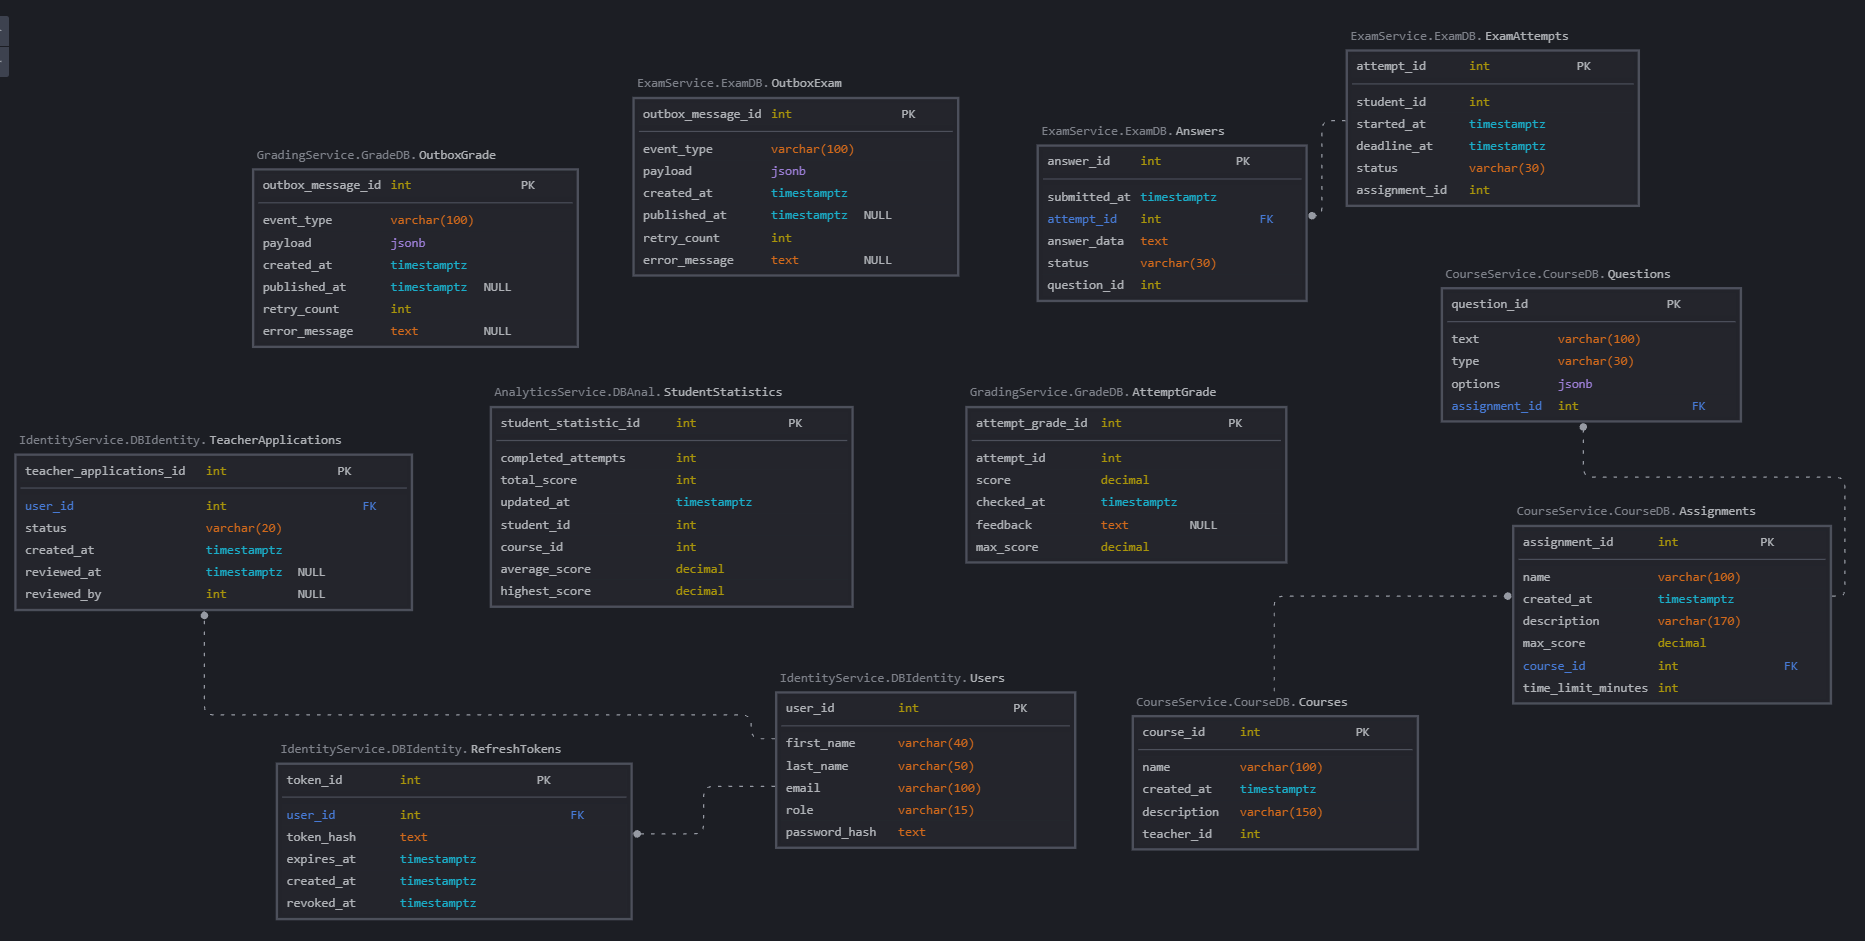
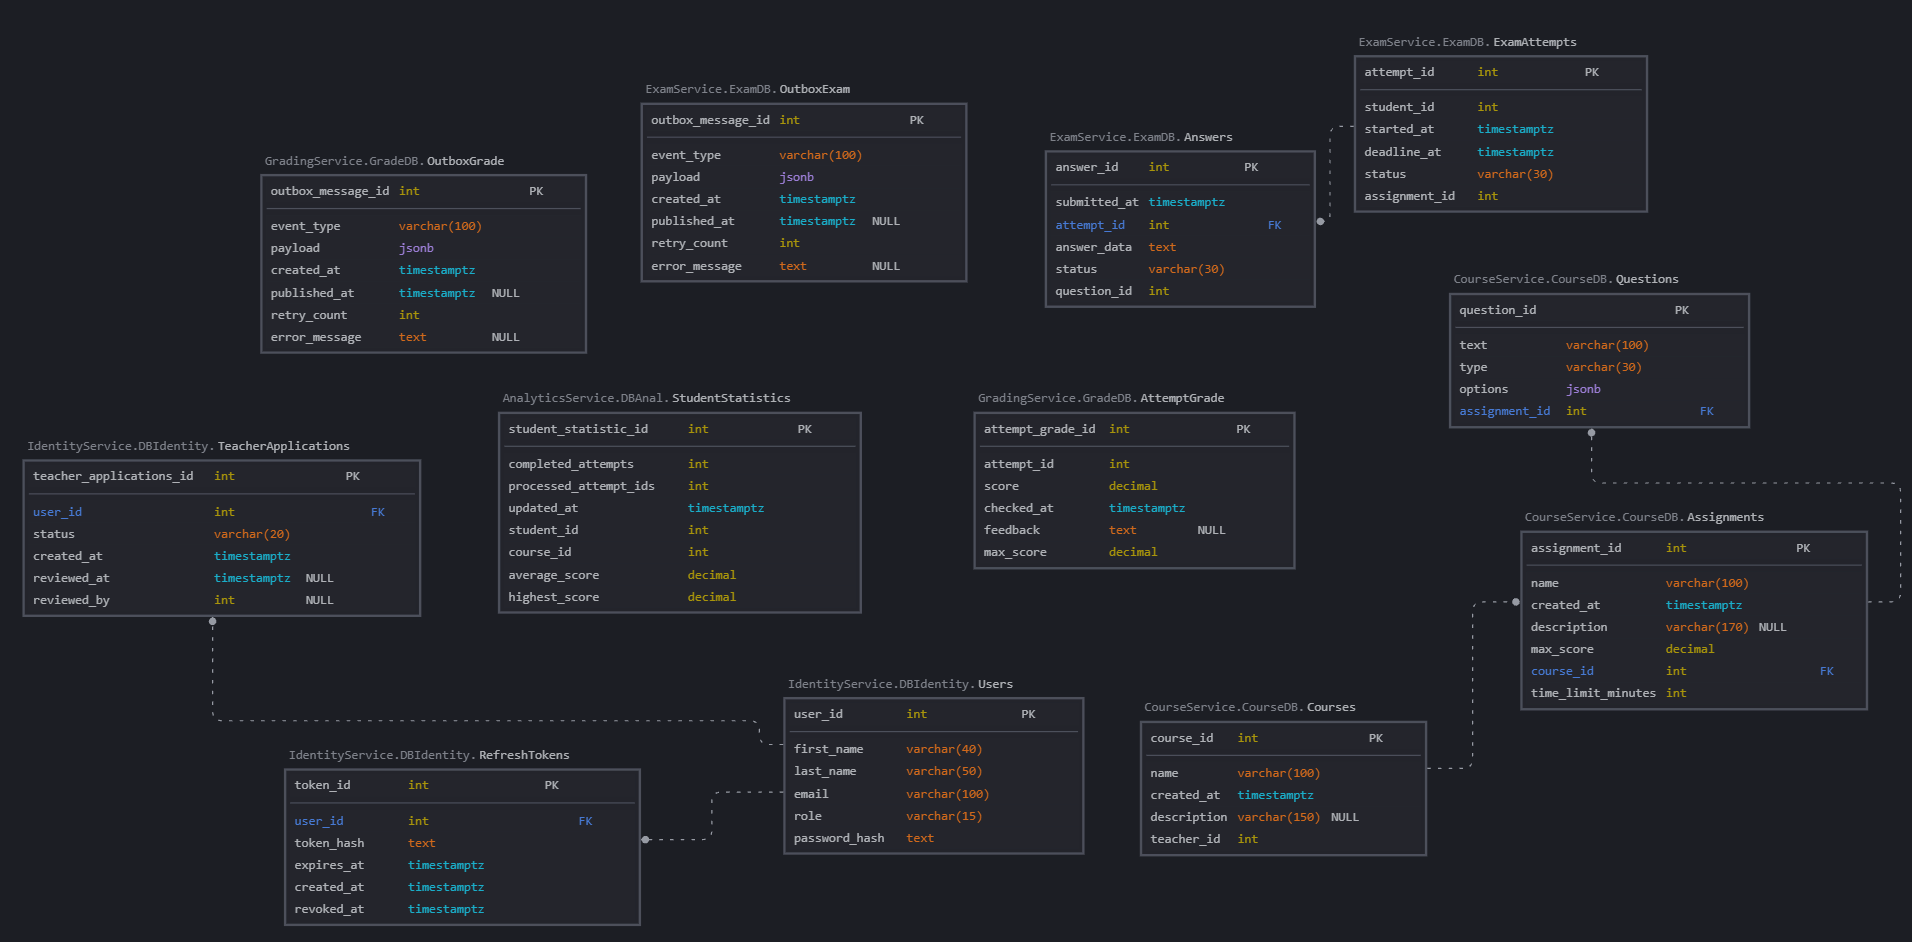
docs: update plan, architecture and er diagram

diff --git a/docs/PLAN.md b/docs/PLAN.md
@@ -22,9 +22,9 @@
 
 | 3. Каркас | Сервисы, Docker Compose, CI, первый тест | 23.10 - 24.10 | 24.10 | Выполнено |
 
-| 4. Основная функциональность | Сервисы A, B, C с тестами | 24.10 - 8.11 | | В работе |
+| 4. Основная функциональность | Сервисы A, B, C с тестами | 24.10 - 10.11 | | В работе |
 
-| 5. Клиент и интеграция | Клиент, сквозные сценарии | 8.11 - 11.11 | | Не начат |
+| 5. Клиент и интеграция | Клиент, сквозные сценарии | 10.11 - 11.11 | | Не начат |
 
 | 6. Финал | Документация, демонстрация | 12.11 - 13.11 | | Не начат |
 
@@ -54,5 +54,5 @@
 
 
 
-продлила этап, так как плохо себя чувствую из за лекарств.
+Продлила этап 4 из-за плохого самочувствия.
 

diff --git a/docs/ARCHITECTURE.md b/docs/ARCHITECTURE.md
@@ -893,6 +893,7 @@ sequenceDiagram
 
 | 4. Использовать JsonElement для Options.Question | Использовать JsonDocument для Options.Question | Он не требует освобождения ресурсов через Dispose(), в отличие от JsonDocument |
 
+| 5. Использовать отдельный дто для лимита времени прохождения теста | Использовать [FromBody] int | Дто класс идеально подстраивается под привычный формат JSON-объекта, в отличие от простых типов |
 
 
 
